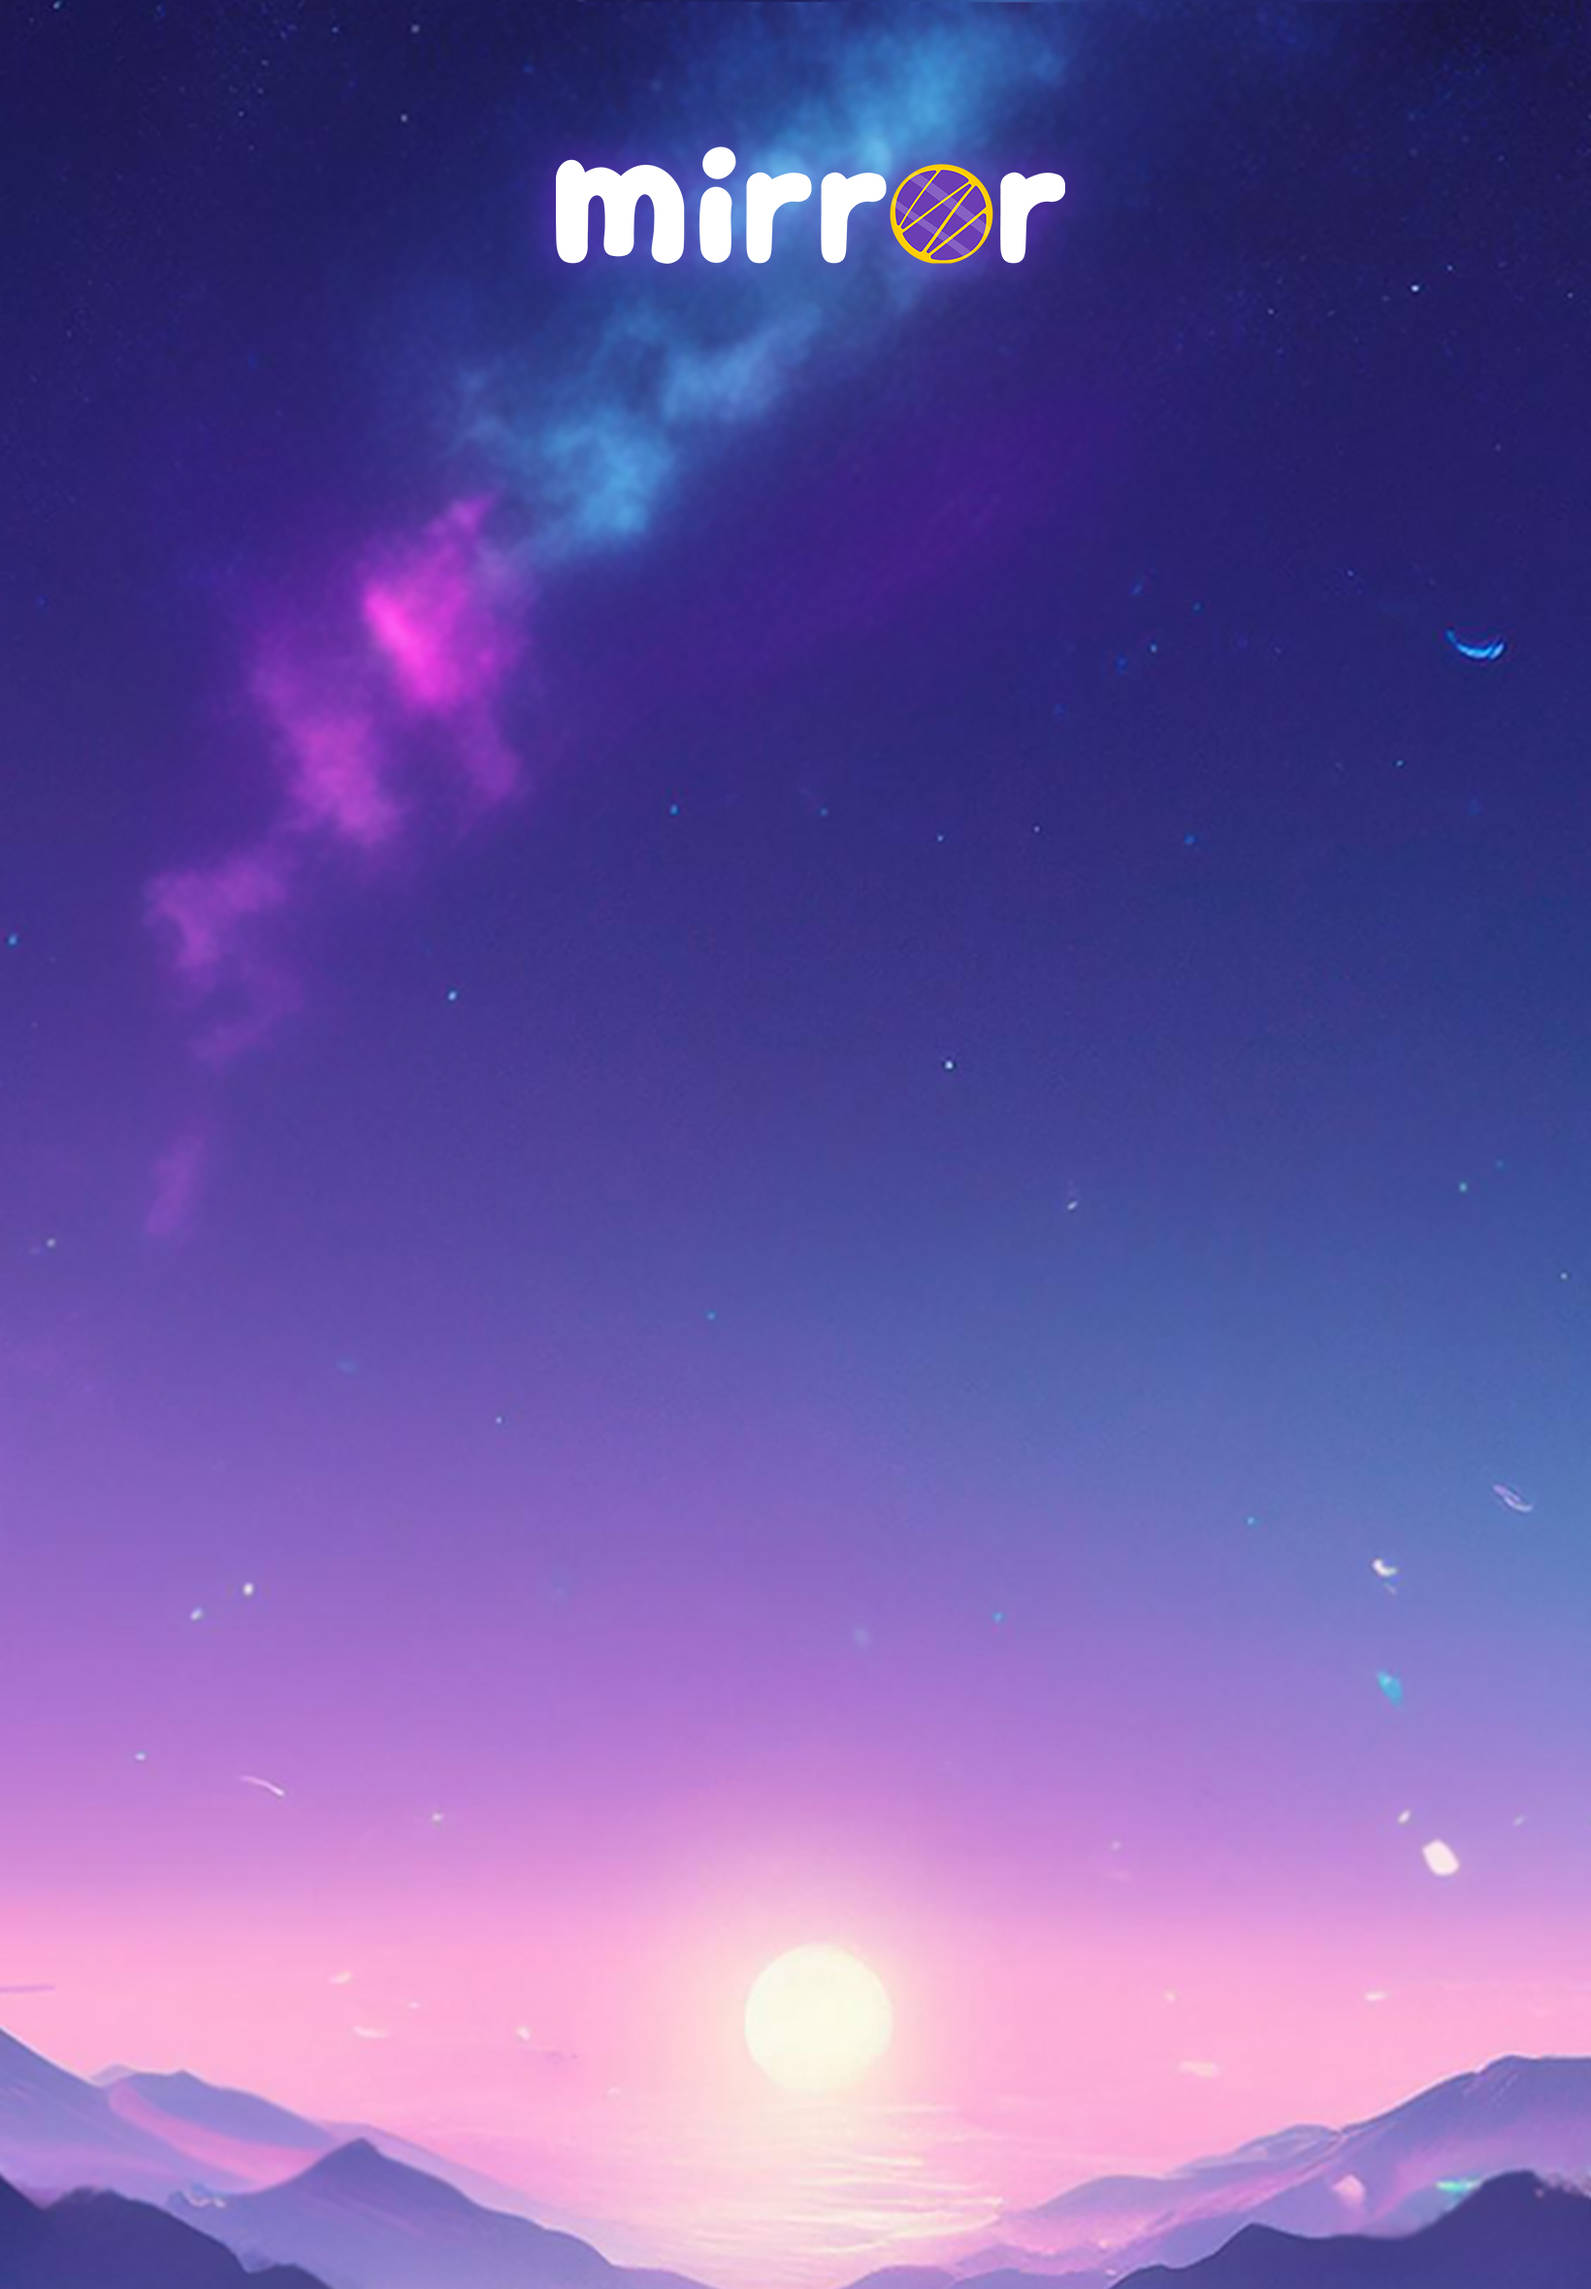
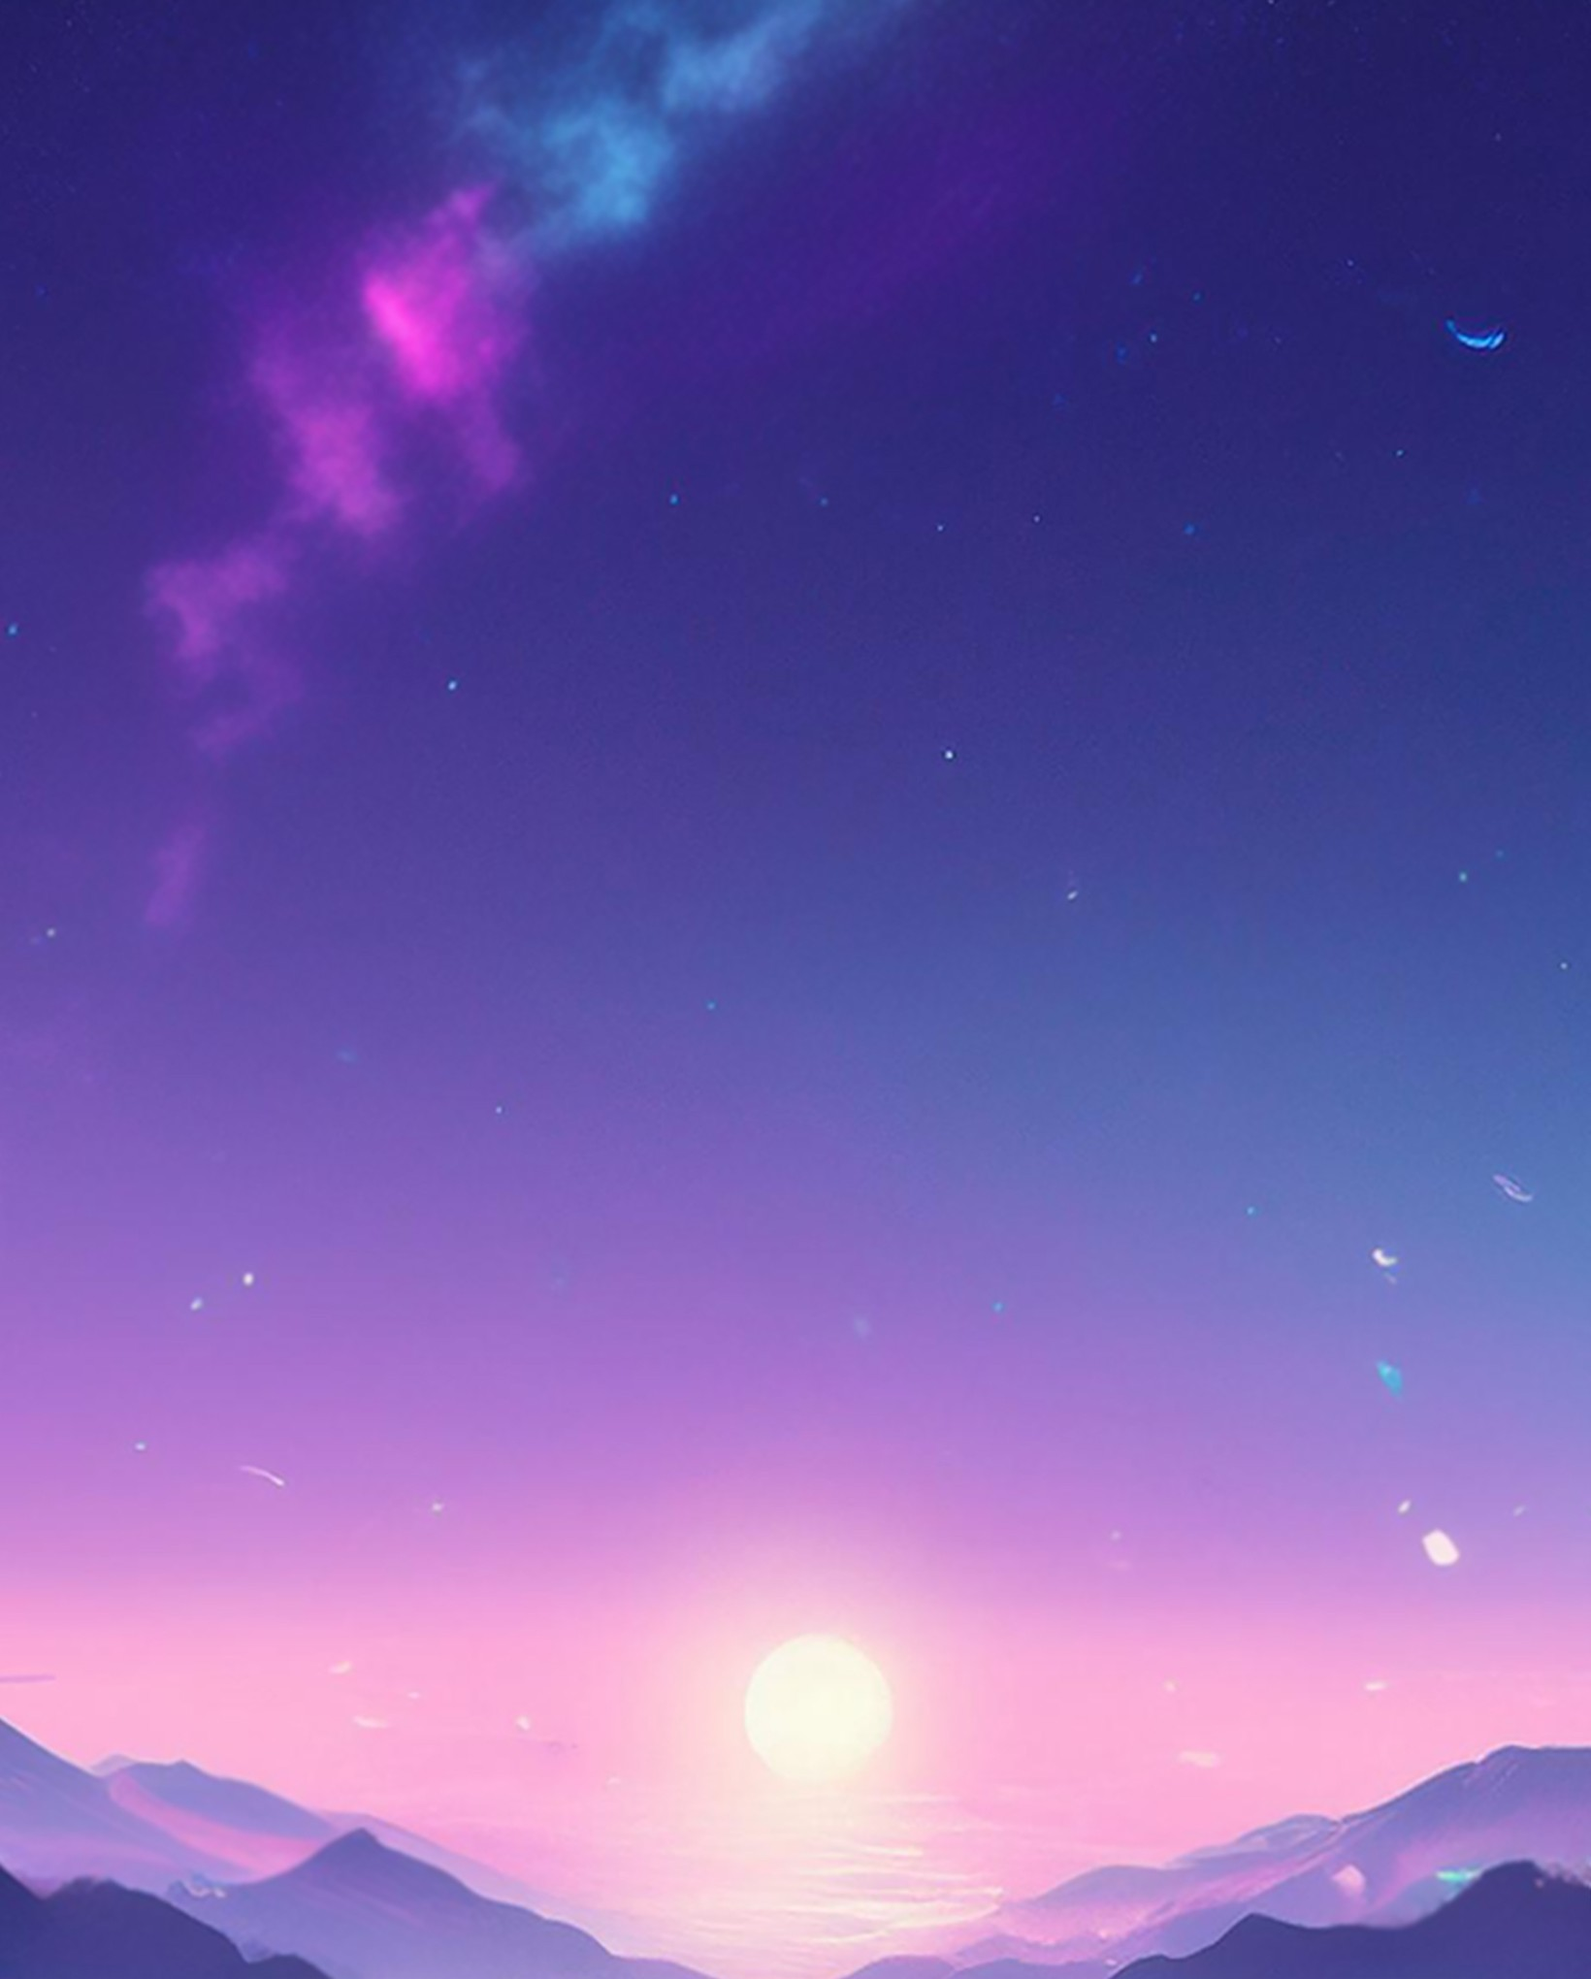
editing background image

diff --git a/show-id.js b/show-id.js
@@ -1,39 +1,1 @@
-*{
-    box-sizing: border-box;
-}
-
-.logo {
-  width: auto;
-  max-width: 180px;
-  max-height: 80px; 
-  height: auto;
-  object-fit: contain;
-}
-
-.logo-wrapper{
-    display:flex;
-    justify-content:center;
-    margin-bottom: 2rem;
-}
-
-.app-shell{
-    width: 100%;
-    min-height: 100svh;
-    display:flex;
-    justify-content:center;
-    align-items:center;
-}
-
-.app-content{
-    width: min(90vw, 420px);
-    display:flex;
-    flex-direction: column;
-    align-items: center;
-    padding:0 0.5 rem;
-}
-
-body{
-    margin: 0;
-    color:white;
-    font-family: "Delius", serif;
-}
+/* generate showid/pin*/
